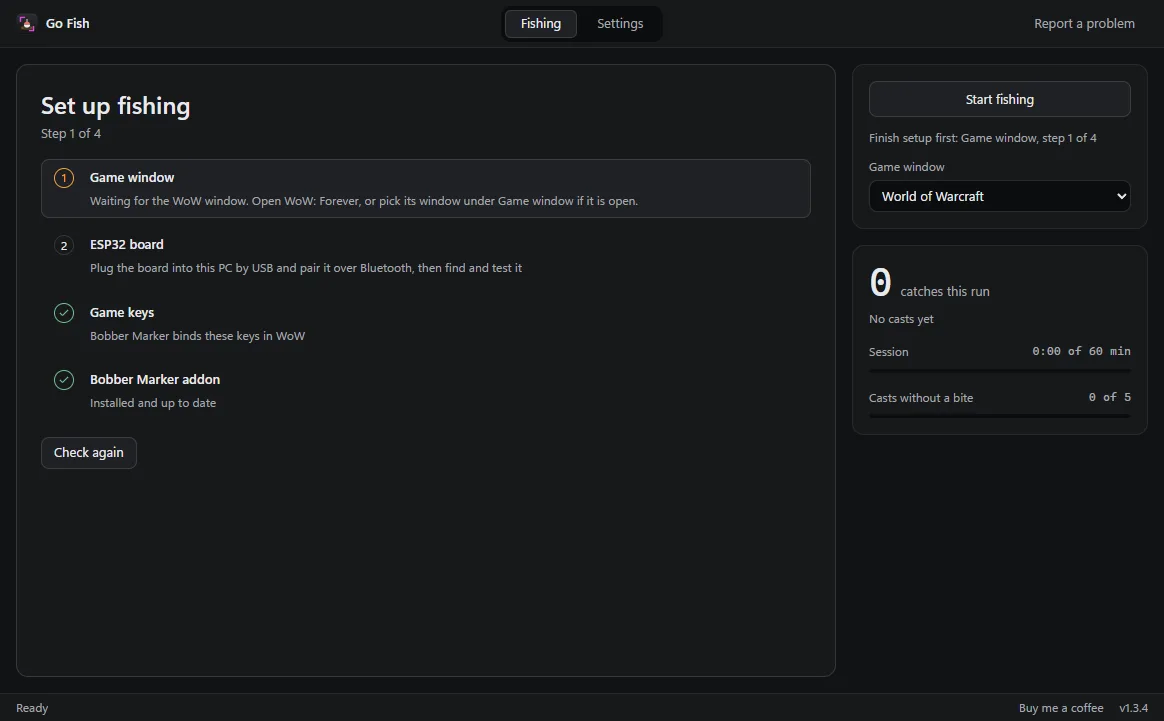
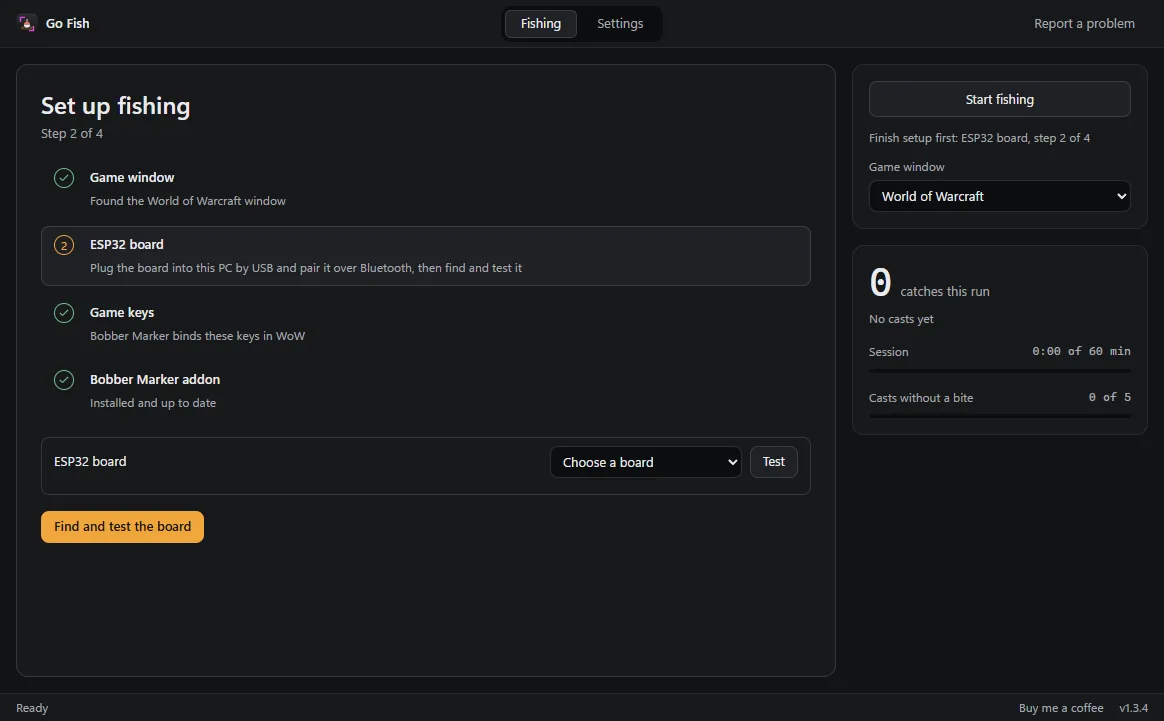
Show the setup screenshot with the game found and the board step next
skip-release

diff --git a/docs/index.html b/docs/index.html
@@ -53,7 +53,7 @@ body_class: home
     <div class="app-screens">
       <figure>
         <a href="{{ '/assets/go-fish-setup.webp' | relative_url }}" aria-label="Open the full-size setup screenshot">
-          <img src="{{ '/assets/go-fish-setup.webp' | relative_url }}" width="1164" height="721" loading="lazy" alt="Set up fishing waiting for the game window, with the keys and Bobber Marker already done and Start fishing saying which step is missing">
+          <img src="{{ '/assets/go-fish-setup.webp' | relative_url }}" width="1164" height="721" loading="lazy" alt="Set up fishing with the game window found and the ESP32 board step next, its Find and test the board button and the hint under Start fishing">
         </a>
         <figcaption><strong>Set up fishing</strong><p>Find the game window and the ESP32 board, confirm your keys and install Bobber Marker.</p></figcaption>
       </figure>
